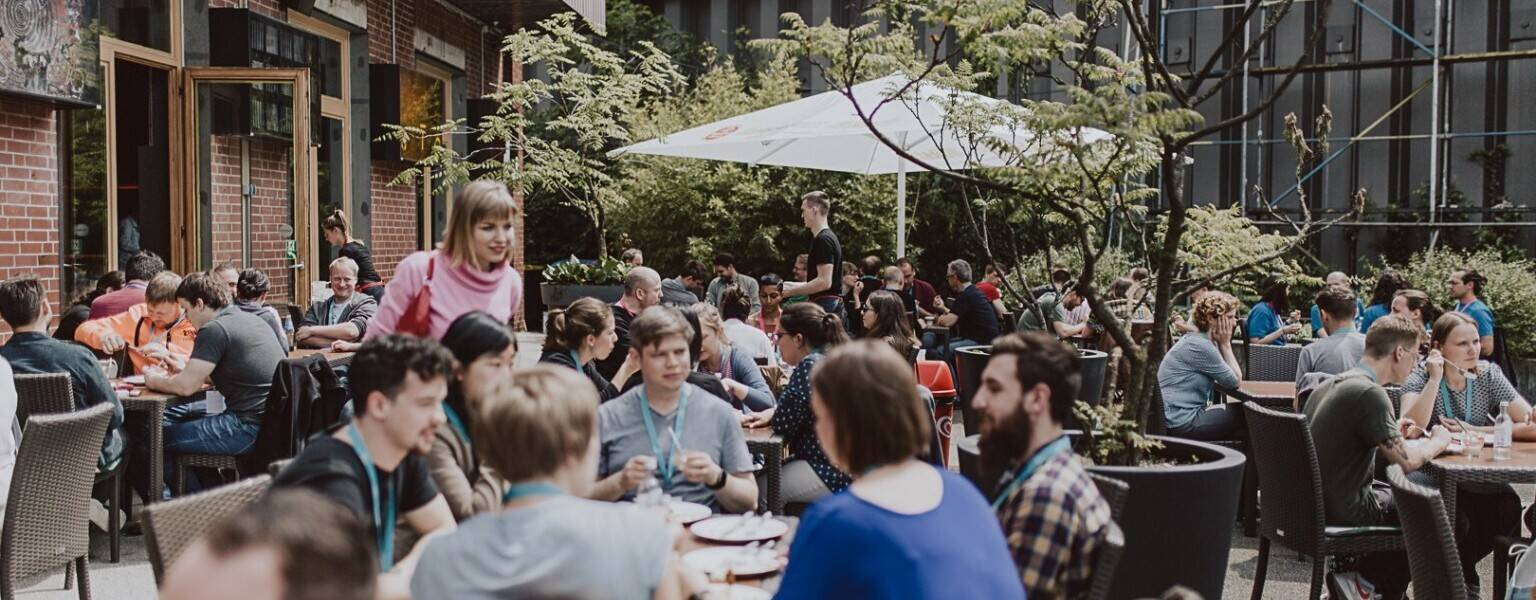
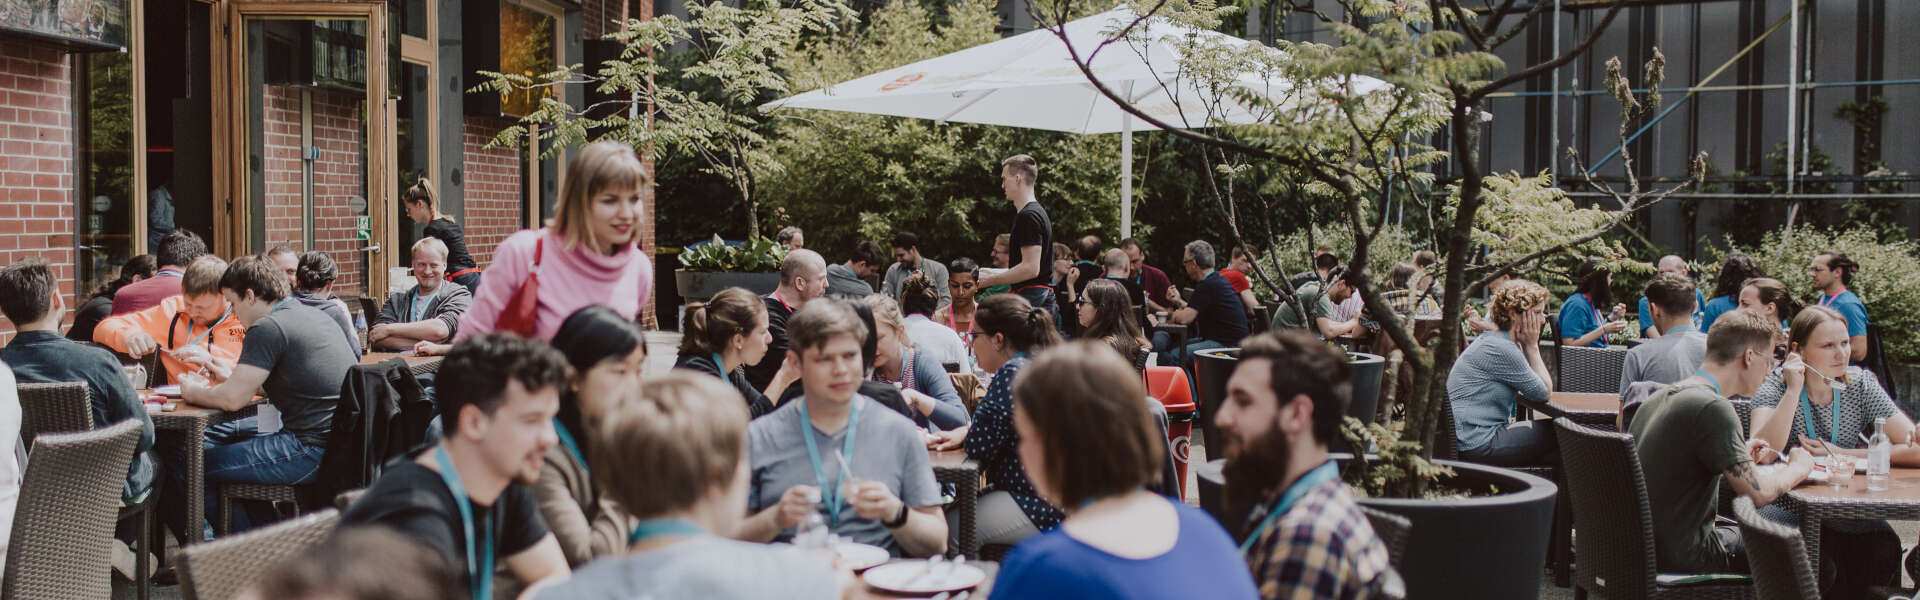
Resize 2019 header image

diff --git a/assets/css/style.css b/assets/css/style.css
@@ -228,7 +228,7 @@ body > header.hero {
 
 body > header.ta2019 {
   background-image: url("/assets/images/events/2019-large.jpg");
-  background-size: 1536px 600px;
+  background-size: 1920px 600px;
 }
 
 @media (max-width: 699px) {
